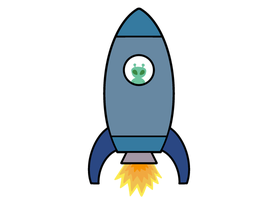
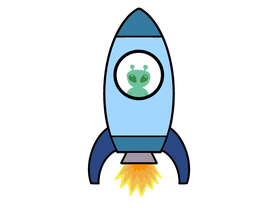
new better images added

Changed region(s): [[0.3741, 0.1731, 0.6331, 0.6635]]

diff --git a/css/style.css b/css/style.css
@@ -92,7 +92,7 @@ body.body-state4 .rocket{
     background-image: url('../img/State_3.png');
 }
 body.body-state5 .rocket{
-    background-image: url('../img/State_4_big.png');
+    background-image: url('../img/State_4.png');
     width: 556px;
     height: 417px;
     margin-left: -278;
